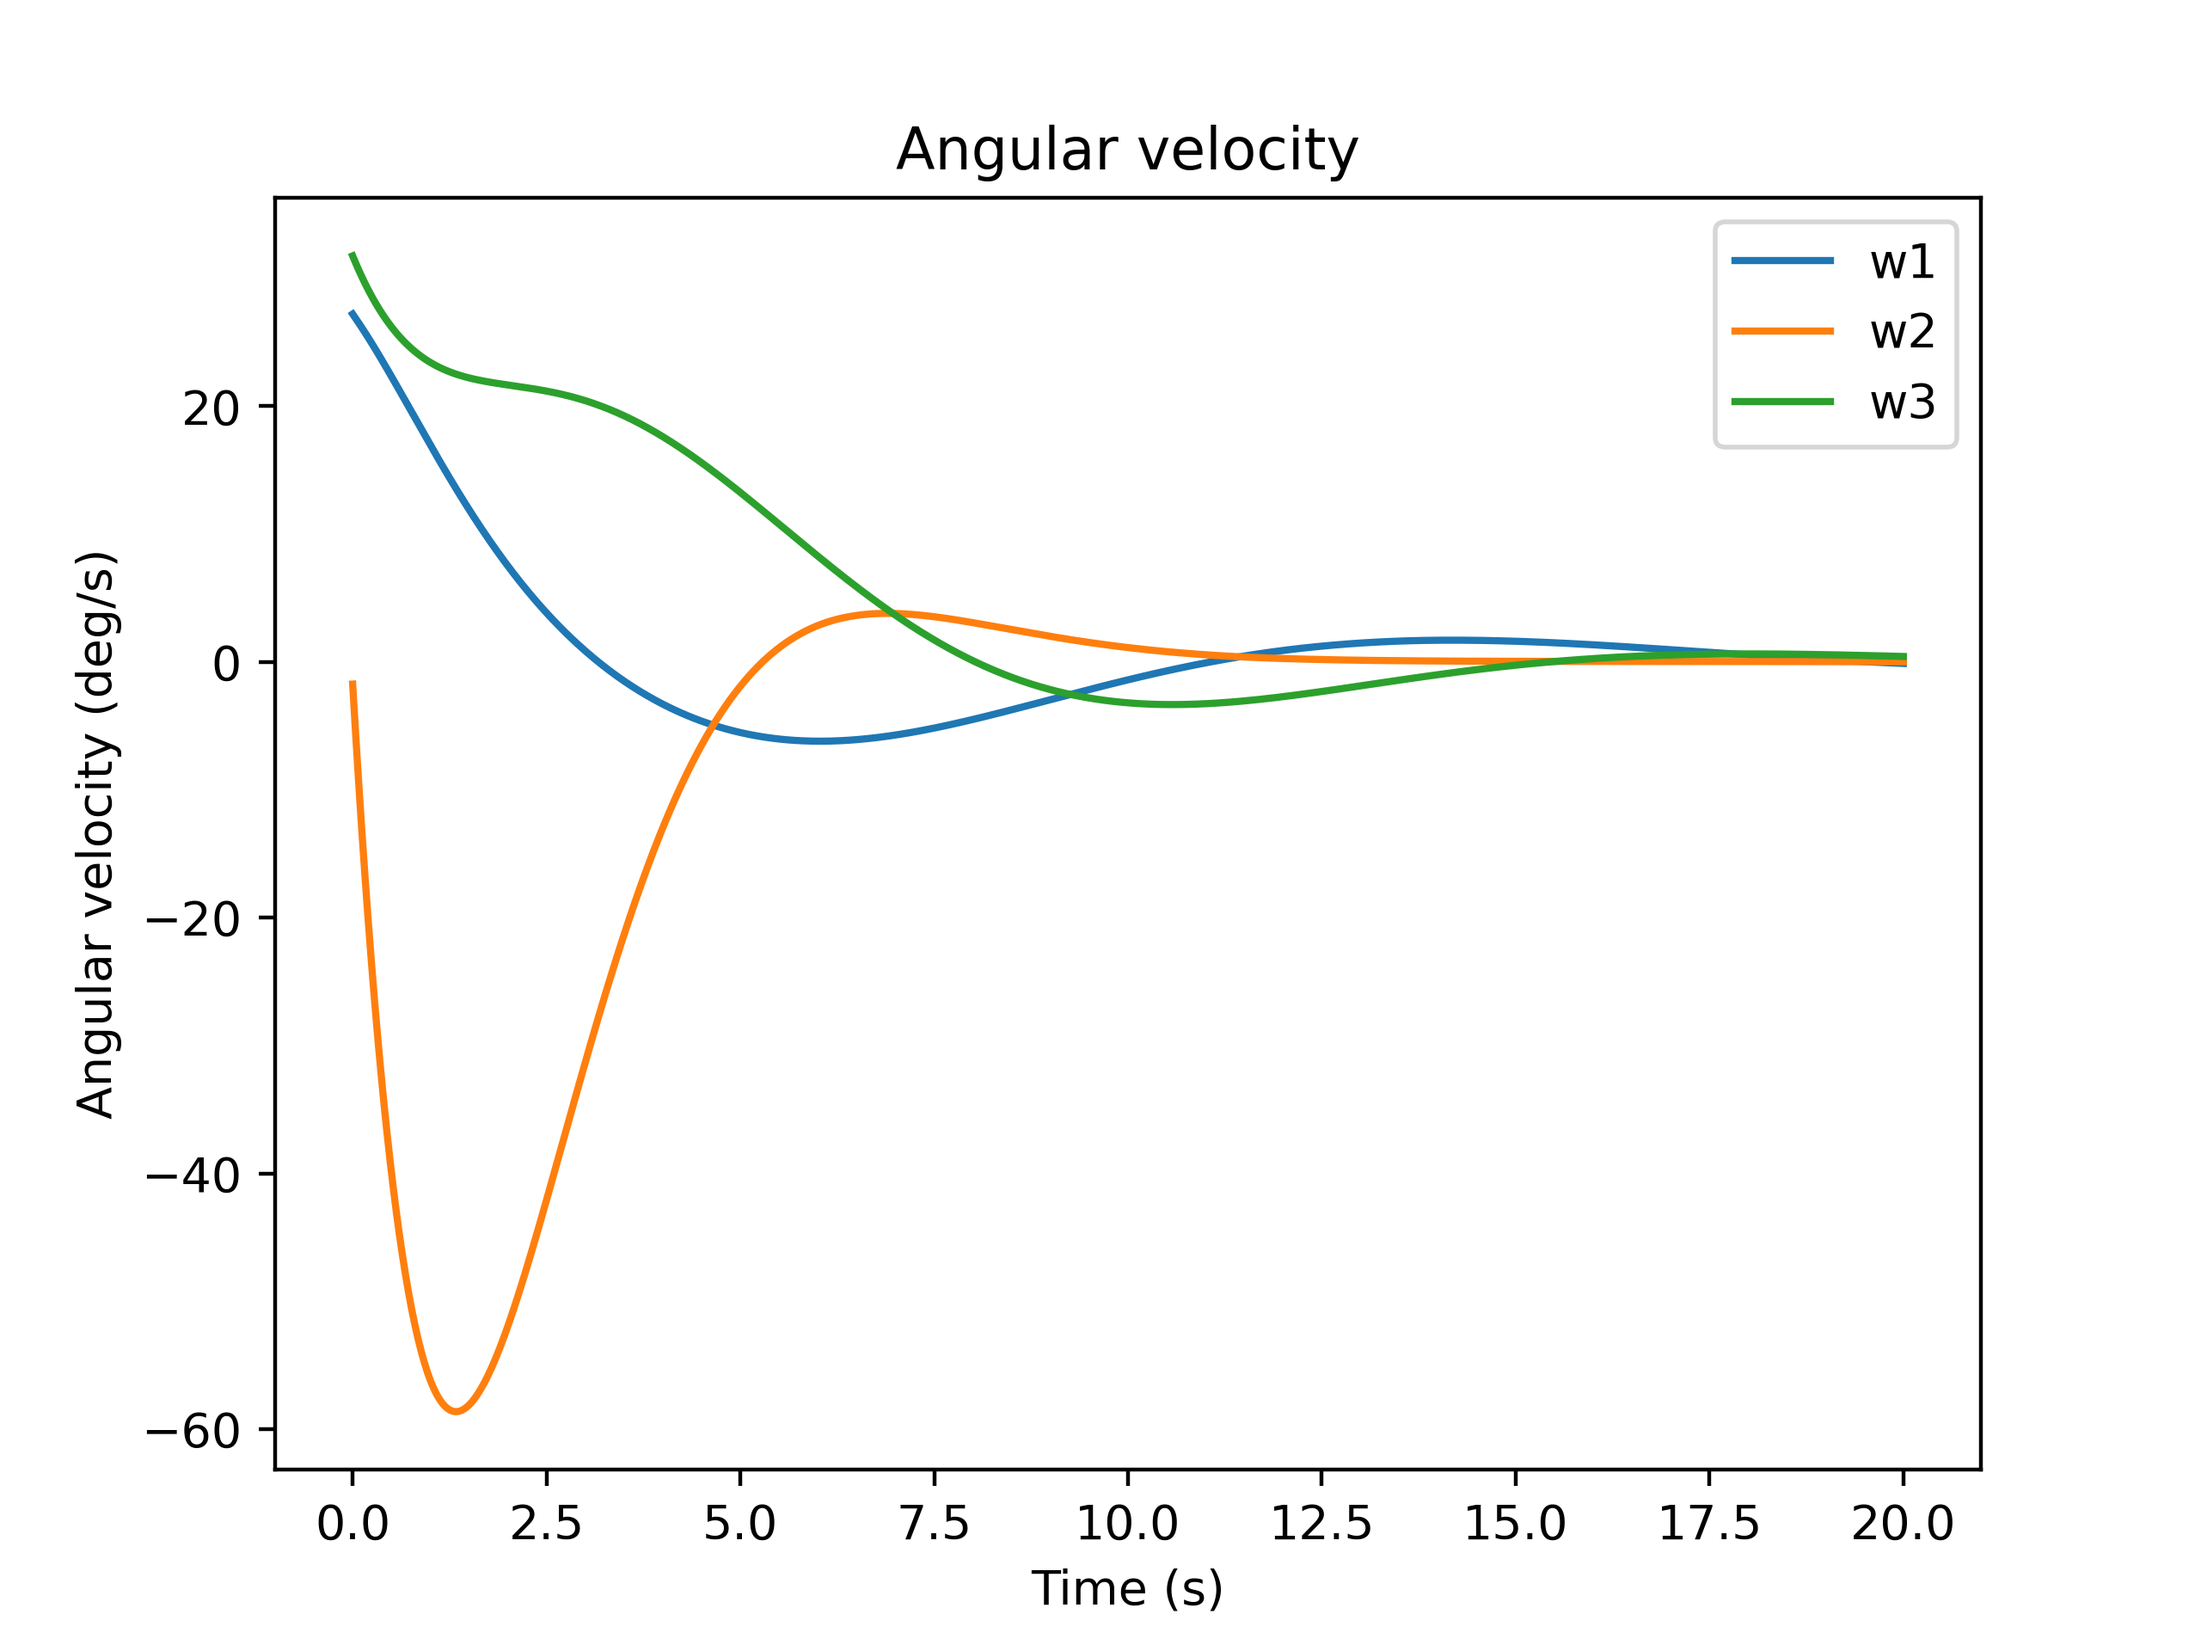
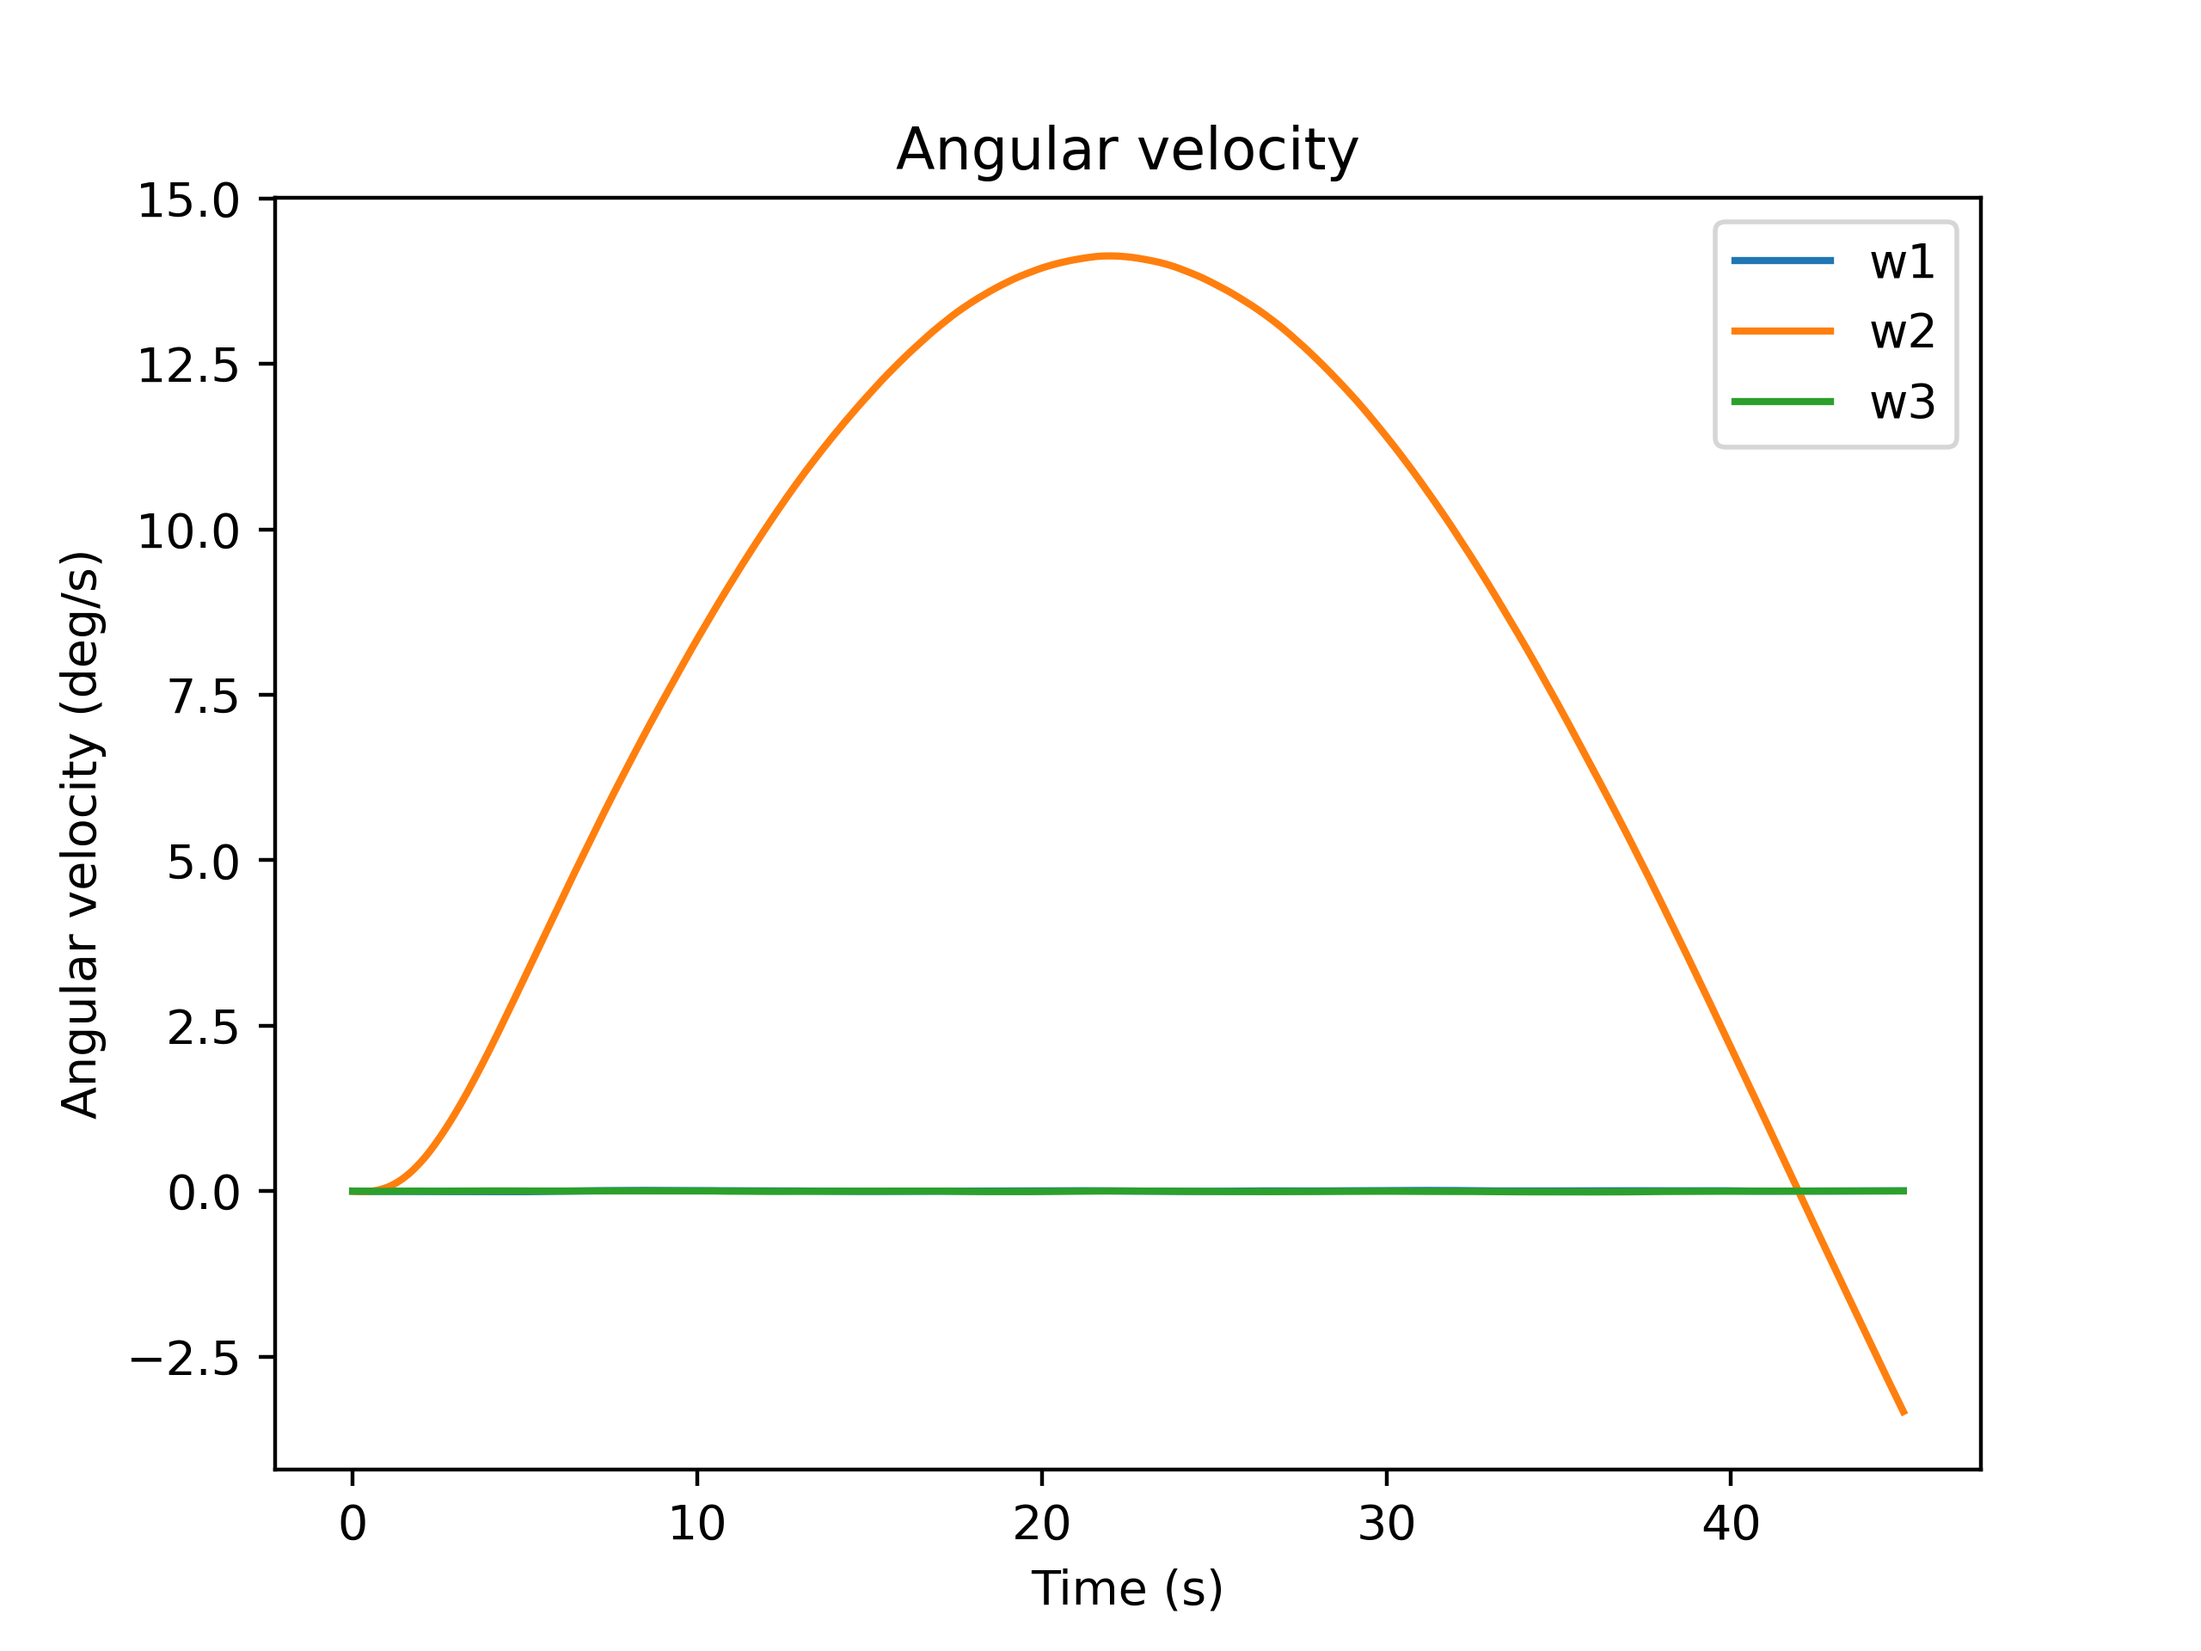
finish part 4

diff --git a/HW4/eigenaxis.py b/HW4/eigenaxis.py
@@ -1,0 +1,310 @@
+import numpy as np
+from scipy.linalg import expm
+import matplotlib.pyplot as plt
+
+savefig = True
+
+combined_torque = np.load("torque.npy")
+
+# Quaternion functions
+
+def hat(v):
+    return np.array([
+        [0,    -v[2],  v[1]],
+        [v[2],  0,    -v[0]],
+        [-v[1], v[0],  0]
+    ])
+
+def unhat(S):
+    return 0.5 * np.array([
+        S[2, 1] - S[1, 2],
+        S[0, 2] - S[2, 0],
+        S[1, 0] - S[0, 1]
+    ])
+
+H = np.vstack((np.zeros((1, 3)), np.eye(3)))
+
+T = np.block([
+    [np.array([[1.0]]), np.zeros((1, 3))],
+    [np.zeros((3, 1)), -np.eye(3)]
+])
+
+def L(q):
+    q0 = q[0]
+    qv = q[1:4]
+    return np.block([
+        [np.array([[q0]]), -qv.reshape(1, 3)],
+        [qv.reshape(3, 1), q0 * np.eye(3) + hat(qv)]
+    ])
+
+def R(q):
+    q0 = q[0]
+    qv = q[1:4]
+    return np.block([
+        [np.array([[q0]]), -qv.reshape(1, 3)],
+        [qv.reshape(3, 1), q0 * np.eye(3) - hat(qv)]
+    ])
+
+def G(q): # Relates qdot to angular velocity omega
+    return L(q) @ H
+
+def Q(q):
+    return H.T @ R(q).T @ L(q) @ H
+
+def expq(phi):
+    # Maps a rotation vector phi in R^3 to a unit quaternion
+    theta = np.linalg.norm(phi)
+
+    if theta < 1e-8:
+        return np.concatenate(([1.0], phi))
+
+    return np.concatenate(([np.cos(theta)], phi * (np.sin(theta) / theta)))
+
+def logq(q):
+    c = q[0]
+    s = np.linalg.norm(q[1:])
+    theta = np.atan2(s, c)
+    return q[1:] / np.sinc(theta/np.pi)
+
+# Dynamics
+
+J = np.diag([0.0306, 0.0086, 0.022])
+
+def dynamics(x, u, tau): # Gets rate of change of state at some state
+    q = x[0:4]
+    q = q / np.linalg.norm(q)
+
+    omega = x[4:7]
+    b = x[7:10]
+
+    qdot = 0.5 * G(q) @ omega
+    omegadot = -np.linalg.inv(J) @ u + np.linalg.inv(J) @ tau
+    bdot = np.zeros(3)
+
+    xdot = np.concatenate((qdot, omegadot, bdot))
+    return xdot
+
+def state_prediction(x, u, h):
+    """
+    x = [q; beta]  (7,)
+    u = gyro measurement (3,)
+    returns predicted [q_next; beta_next]
+    """
+    q = x[0:4]
+
+    omega_hat = u
+    dq = expq(0.5 * h * omega_hat)
+
+    q_next = L(q) @ dq
+    q_next = q_next / np.linalg.norm(q_next)
+
+    return q_next
+
+def state_prediction_deriv(x, u, h):
+    """
+    Returns 6x6 linearized error-state transition matrix A
+    for error state [delta_theta; delta_beta]
+    """
+    q = x[0:4]
+
+    omega_hat = u
+    dq = expq(0.5 * h * omega_hat)
+    qn = L(q) @ dq
+    qn = qn / np.linalg.norm(qn)
+
+    Aqq = G(qn).T @ R(dq) @ G(q)
+
+    Aqb = -0.5 * G(qn).T @ G(q)
+
+    Abq = np.zeros((3, 3))
+    Abb = np.eye(3)
+
+    A = np.block([
+        [Aqq, Aqb],
+        [Abq, Abb]
+    ])
+
+    return Aqq
+
+def rkstep(x, u, tau, h):
+    f1 = dynamics(x, u, tau)
+    f2 = dynamics(x + 0.5 * h * f1, u, tau)
+    f3 = dynamics(x + 0.5 * h * f2, u, tau)
+    f4 = dynamics(x + h * f3, u, tau)
+
+    xn = x + (h / 6.0) * (f1 + 2 * f2 + 2 * f3 + f4)
+    xn[:4] = xn[:4] / np.linalg.norm(xn[:4])
+    # xn[7:10] += np.random.multivariate_normal(np.zeros(3), W_gyro)
+    return xn
+
+t_sim = np.linspace(0, 45, 1000)
+
+phi_initial = np.zeros(3)
+qk = expq(phi_initial)
+omegak = np.zeros(3)
+bk = np.zeros(3)
+xk = np.concatenate((qk, omegak, bk))
+x_array = [xk]
+r_act_array = []
+
+## initialize filter
+# q_filt = [0.99,0.01,np.sqrt(1-0.99**2-0.01**2),0]
+q_filt = expq(phi_initial)
+# x_filt = np.concatenate((q_filt, b_filt))
+x_filt = np.array(q_filt)
+x_filt_array = [x_filt]
+P_filt = np.eye(3)
+P_array = [P_filt]
+
+### initialize controller
+theta_final = np.pi
+alpha = np.pi/40 # 40 seconds
+def versine(t):
+    return theta_final*1/2*(1-np.cos(alpha*t))
+
+def get_qref(k):
+    t = t_sim[k]
+    theta = versine(t)
+    phi_ref = theta * r_ref
+    return expq(phi_ref)
+
+r_ref = np.array([0,1,0])
+w0_ref = [0,0,0]
+def get_xref(k):
+    return np.concatenate((get_qref(k), w0_ref))
+x_ref = get_xref(0)
+x_ref_array = [x_ref]
+P_controller = 0.01
+D_controller = 0.01
+last_error = 0
+u_array = []
+
+### initialize sensors
+m = 4  # number of inertial reference vectors
+W_all = [np.diag([1.78e-6, 1.78e-6, 1.78e-6]), np.diag([3.38e-5, 3.38e-5, 3.38e-5]), np.diag([3.05e-6, 3.05e-6, 3.05e-6]), np.diag([3402.8, 136.1, 136.1]) / 60 / 60 * np.pi / 180]
+rN = [np.array([1,0,0]), np.array([0,1,0]), np.array([0,0,1]), np.array([np.sqrt(2)/2, np.sqrt(2)/2, 0])]
+V_gyro = 2.35e-9 * np.eye(3) # Gyro measurement white noise covariance
+W_gyro = 2.12e-10 * np.eye(3) # gyro random walk driving covariance
+V_filter = np.block([[V_gyro, np.zeros((3,3))],
+                     [np.zeros((3,3)), V_gyro]]) # use gyro white noise as estimate of process noise
+
+def get_gyro(xk):
+    measurement = xk[4:7] + np.random.multivariate_normal(np.zeros(3), V_gyro)
+    return measurement
+
+
+def get_control(xfilt, xref, gyro_meas, dt):
+    q_ref = xref[0:4]
+    q_filt = xfilt[0:4]
+    q_error = L(q_ref).T @ q_filt
+    phi = logq(q_error)
+    u = P_controller * phi + D_controller * gyro_meas
+    return u
+
+for i in range(len(t_sim)-1):
+    x_ref = get_xref(i)
+    x_ref_array.append(x_ref)
+    dt = t_sim[i+1] - t_sim[i]
+
+    ### take gyro measurement
+    gyro_meas = get_gyro(xk)
+
+    ### control
+    u = get_control(x_filt, x_ref, gyro_meas, dt)
+    u_array.append(u)
+
+    ### predict
+    x_filt = state_prediction(x_filt, gyro_meas, dt)
+    Apred = state_prediction_deriv(x_filt, gyro_meas, dt)
+    P_filt = Apred @ P_filt @ Apred.T + V_gyro
+
+    ### measure
+    for j in range(m):
+        ### generate measurement
+        W = W_all[j]
+        qk = xk[0:4]
+        meas = Q(qk) @ rN[j] + np.random.multivariate_normal(np.zeros(3), W)
+
+        ### predict
+        q_filt = x_filt[0:4]
+        meas_pred = Q(q_filt) @ rN[j]
+        z_filt = meas - meas_pred
+        # C = -H.T @ (L(q_filt).T @ L(H@rN[j]) + R(q_filt) @ R(H@rN[j]) @ T) @ G(q_filt)
+        C = -2 * Q(q_filt) @ hat(rN[j]) # equivalent C matrix
+        S = C @ P_filt @ C.T + W
+        K = P_filt @ C.T @ np.linalg.inv(S)
+        phi_filt = K @ z_filt
+        phi = phi_filt[0:3]
+        x_filt = L(x_filt[0:4]) @ np.array([np.sqrt(1-np.dot(phi, phi)), *phi])
+
+        P_filt = (np.eye(3)-K@C) @ P_filt @ (np.eye(3)-K@C).T + K@W@K.T
+    x_filt_array.append(x_filt)
+    P_array.append(P_filt)
+
+    ### propagate dynamics
+    tau = combined_torque[i]
+    xk = rkstep(xk, u, tau, dt)
+    x_array.append(xk)
+    
+    ### compute pointing error
+    r_act_array.append(Q(xk[0:4]) @ np.array([1,0,0]))
+
+x_array = np.array(x_array)
+x_filt_array = np.array(x_filt_array)
+P_array = np.array(P_array)
+u_array = np.array(u_array)
+x_ref_array = np.array(x_ref_array)
+
+### compute RMS pointing error
+err_array = []
+for i, r_act in enumerate(r_act_array):
+    r_des = Q(x_ref_array[i,0:4]) @ np.array([1,0,0])
+    err = np.acos(np.dot(r_des, r_act))
+    err_array.append(err)
+err_array = np.array(err_array)
+
+theta_rms_rad = np.sqrt(np.mean(err_array**2))
+theta_rms_deg = np.rad2deg(theta_rms_rad)
+
+print(f"RMS pointing error: {theta_rms_rad:.6e} rad")
+print(f"RMS pointing error: {theta_rms_deg:.6f} deg")
+
+
+plt.figure()
+plt.plot(t_sim, x_array[:, 0], label="q0")
+plt.plot(t_sim, x_array[:, 1], label="q1")
+plt.plot(t_sim, x_array[:, 2], label="q2")
+plt.plot(t_sim, x_array[:, 3], label="q3")
+plt.plot(t_sim, x_ref_array[:,0], linestyle="--", c="C0")
+plt.plot(t_sim, x_ref_array[:,1], linestyle="--", c="C1")
+plt.plot(t_sim, x_ref_array[:,2], linestyle="--", c="C2")
+plt.plot(t_sim, x_ref_array[:,3], linestyle="--", c="C3")
+plt.legend()
+plt.title("Quaternion simulated components")
+plt.xlabel("Time (s)")
+if savefig:
+    plt.savefig(f"figs/eigen-quat-comp.png", dpi=400)
+
+plt.figure()
+plt.plot(t_sim, np.rad2deg(x_array[:,4]), label="w1")
+plt.plot(t_sim, np.rad2deg(x_array[:,5]), label="w2")
+plt.plot(t_sim, np.rad2deg(x_array[:,6]), label="w3")
+plt.legend()
+plt.ylabel("Angular velocity (deg/s)")
+plt.title("Angular velocity")
+plt.xlabel("Time (s)")
+if savefig:
+    plt.savefig(f"figs/eigen-angular-velocity.png", dpi=400)
+
+plt.figure()
+plt.plot(t_sim[:-1], u_array[:, 0]*1e3, label="tau1")
+plt.plot(t_sim[:-1], u_array[:, 1]*1e3, label="tau2")
+plt.plot(t_sim[:-1], u_array[:, 2]*1e3, label="tau3")
+plt.title("Control history")
+plt.ylabel("Torque (mNm)")
+plt.xlabel("Time (s)")
+plt.legend()
+plt.tight_layout()
+if savefig:
+    plt.savefig(f"figs/eigen-control-history.png", dpi=400)
+plt.show()
